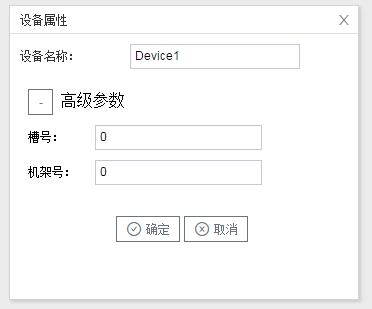
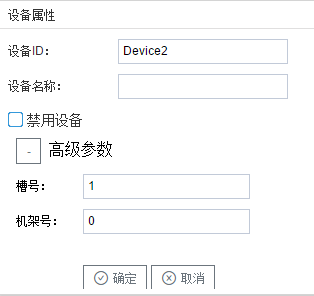
PLC设备页面更新

diff --git a/PLC/OMRON/HOSTLINK-FINS/新建设备.md b/PLC/OMRON/HOSTLINK-FINS/新建设备.md
@@ -14,15 +14,16 @@
 
 <center>图5-11-5  设备配置</center>
 
-- "设备名称"：可自定义，默认为"Device1"，同一通道下，设备名称不可重复。
+- "设备ID"：可自定义，默认为"Device1"，同一通道下，设备ID不可重复。
 - "设备地址"：PLC的站号。标准协议定义通信地址，地址范围是0~41。
+- "设备名称"：可自定义，可不填。
 - PLC单元号：默认为0，必填。
 - 上位机单元号：默认为0，必填。
 - 设备标识号：默认为0，必填。
 
 配置完成后，"Channel1"下会多出一个新增设备”Device1“，如下图5-3-6所示。
 
-![](../../assets/../Device子菜单栏.png)
+![](../../../assets/Device子菜单栏.png)
 
 <center>图5-11-6 Device1 子菜单栏</center>
 

diff --git a/PLC/Mitsubishi/Fx485/新建设备.md b/PLC/Mitsubishi/Fx485/新建设备.md
@@ -14,8 +14,9 @@
 
 <center>图5-1-5  设备配置</center>
 
-- 设备名称：设备名称：可自定义，默认为"Device1"，同一通道下，设备名称不可重复。
-- 设备地址：填写采集设备的地址，不能为空。
+- "设备ID"：设备名称：可自定义，默认为"Device1"，同一通道下，设备ID不可重复。
+- "设备名称"：可自定义，可不填。
+- "设备地址"：填写采集设备的地址，不能为空。
 
 配置完成后，"Channel1"下会多出一个新增设备"Device1"，如下图5-1-6所示。
 

diff --git a/PLC/Mitsubishi/Mitsubishi Fx3U/新建设备.md b/PLC/Mitsubishi/Mitsubishi Fx3U/新建设备.md
@@ -14,8 +14,9 @@
 
 <center>图5-1-5  设备配置</center>
 
-- 设备名称：设备名称：可自定义，默认为"Device1"，同一通道下，设备名称不可重复。
-- 设备地址：填写采集设备的地址，不能为空。
+- "设备ID"：设备名称：可自定义，默认为"Device1"，同一通道下，设备ID不可重复。
+- "设备名称"：可自定义，可不填。
+- "设备地址"：填写采集设备的地址，不能为空。
 
 配置完成后，"Channel1"下会多出一个新增设备"Device1"，如下图5-1-6所示。
 

diff --git a/PLC/Siemens/S71200-Network/新建设备.md b/PLC/Siemens/S71200-Network/新建设备.md
@@ -14,7 +14,8 @@
 
 <center>图5-4-5 设备配置</center>
 
-- "设备名称"：可自定义，默认为"Device1"，同一通道下，设备名称不可重复。
+- "设备ID"：可自定义，默认为"Device1"，同一通道下，设备ID不可重复。
+- "设备名称"：可自定义，可不填。
 - "槽号"         ：分配各个模块在机架上的具体位置，必填
 - "机架号"     ：安装CPU的机架为主机架为0，扩展的机架编号依次为1号机架、2号机架，必填
 

diff --git a/PLC/Siemens/S7300-Network/新建设备.md b/PLC/Siemens/S7300-Network/新建设备.md
@@ -14,7 +14,8 @@
 
 <center>图5-5-5 设备配置</center>
 
-- "设备名称"：可自定义，默认为"Device1"，同一通道下，设备名称不可重复。
+- "设备ID"：可自定义，默认为"Device1"，同一通道下，设备ID不可重复。
+- "设备名称"：可自定义，可不填。
 - "槽号"         ：分配各个模块在机架上的具体位置，必填
 - "机架号"     ：安装CPU的机架为主机架为0，扩展的机架编号依次为1号机架、2号机架，必填
 

diff --git a/PLC/Siemens/S7400-Network/新建设备.md b/PLC/Siemens/S7400-Network/新建设备.md
@@ -14,7 +14,8 @@
 
 <center>图5-6-5 设备配置</center>
 
-- "设备名称"：可自定义，默认为"Device1"，同一通道下，设备名称不可重复。
+- "设备ID"：可自定义，默认为"Device1"，同一通道下，设备ID不可重复。
+- "设备名称"：可自定义，可不填。
 - "槽号"         ：分配各个模块在机架上的具体位置，必填
 - "机架号"     ：安装CPU的机架为主机架为0，扩展的机架编号依次为1号机架、2号机架，必填
 

diff --git a/PLC/Allen-Bradley/AB_DF1/新建设备.md b/PLC/Allen-Bradley/AB_DF1/新建设备.md
@@ -14,7 +14,8 @@
 
 <center>图5-8-5  设备配置</center>
 
-- "设备名称"：可自定义，默认为"Device1"，同一通道下，设备名称不可重复。
+- "设备ID"：可自定义，默认为"Device1"，同一通道下，设备ID不可重复。
+- "设备名称"：可自定义，可不填。
 - "设备地址"：PLC的站号。标准协议定义通信地址，地址范围是0~255。
 
 配置完成后，"Channel1"下会多出一个新增设备”Device1“，如下图5-3-6所示。

diff --git a/PLC/Siemens/S7200-PPI/新建设备.md b/PLC/Siemens/S7200-PPI/新建设备.md
@@ -14,7 +14,8 @@
 
 <center>图5-3-5  设备配置</center>
 
-- "设备名称"：可自定义，默认为"Device1"，同一通道下，设备名称不可重复。
+- "设备ID"：可自定义，默认为"Device1"，同一通道下，设备ID不可重复。
+- "设备名称"：可自定义，可不填。
 - "设备地址"：PLC的站号。标准协议定义通信地址，地址范围是0~255。
 
 配置完成后，"Channel1"下会多出一个新增设备”Device1“，如下图5-3-6所示。

diff --git a/PLC/Siemens/S71500-Network/新建设备.md b/PLC/Siemens/S71500-Network/新建设备.md
@@ -14,7 +14,8 @@
 
 <center>图5-7-5 设备配置</center>
 
-- "设备名称"：可自定义，默认为"Device1"，同一通道下，设备名称不可重复。
+- "设备ID"：可自定义，默认为"Device1"，同一通道下，设备ID不可重复。
+- "设备名称"：可自定义，可不填。
 - "TSAP(PLC)"   ：第一字节是连接数，第二个字节是机架号和cpu的槽号 
 - "TSAP(PC)"     ：第一字节是连接数，第二个字节填写00即可
 

diff --git a/PLC/Siemens/S7200-Network/新建设备.md b/PLC/Siemens/S7200-Network/新建设备.md
@@ -14,7 +14,9 @@
 
 <center>图5-2-5 设备配置</center>
 
-- "设备名称" ：可自定义，默认为"Device1"，同一通道下，设备名称不可重复。
+- "设备ID" ：可自定义，默认为"Device1"，同一通道下，设备ID不可重复。
+
+- "设备名称"：可自定义，可不填。
 
 - "TSAP(PLC)"   ：第一字节是PLC的连接资源，可在PLC的组态软件中查到。第二个字节的第1位是机架号**乘2**，第2位是槽号
 

diff --git a/PLC/Panasonic/Mewtocol/新建设备.md b/PLC/Panasonic/Mewtocol/新建设备.md
@@ -14,7 +14,8 @@
 
 <center>图5-12-5 设备配置</center>
 
-- "设备名称"：可自定义，默认为"Device1"，同一通道下，设备名称不可重复。
+- "设备ID"：可自定义，默认为"Device1"，同一通道下，设备ID不可重复。
+- "设备名称"：可自定义，可不填。
 - "设备地址"：PLC的站号。
 
 配置完成后，"Channel1"下会多出一个新增设备”Device1“，如下图5-12-6所示。

diff --git a/PLC/Yokogawa/Link/新建设备.md b/PLC/Yokogawa/Link/新建设备.md
@@ -14,7 +14,8 @@
 
 <center>图5-12-5 设备配置</center>
 
-- "设备名称"：可自定义，默认为"Device1"，同一通道下，设备名称不可重复。
+- "设备ID"：可自定义，默认为"Device1"，同一通道下，设备ID不可重复。
+- "设备名称"：可自定义，可不填。
 - "设备地址"：填入PLC站号
 
 配置完成后，"Channel1"下会多出一个新增设备”Device1“，如下图5-12-6所示。
